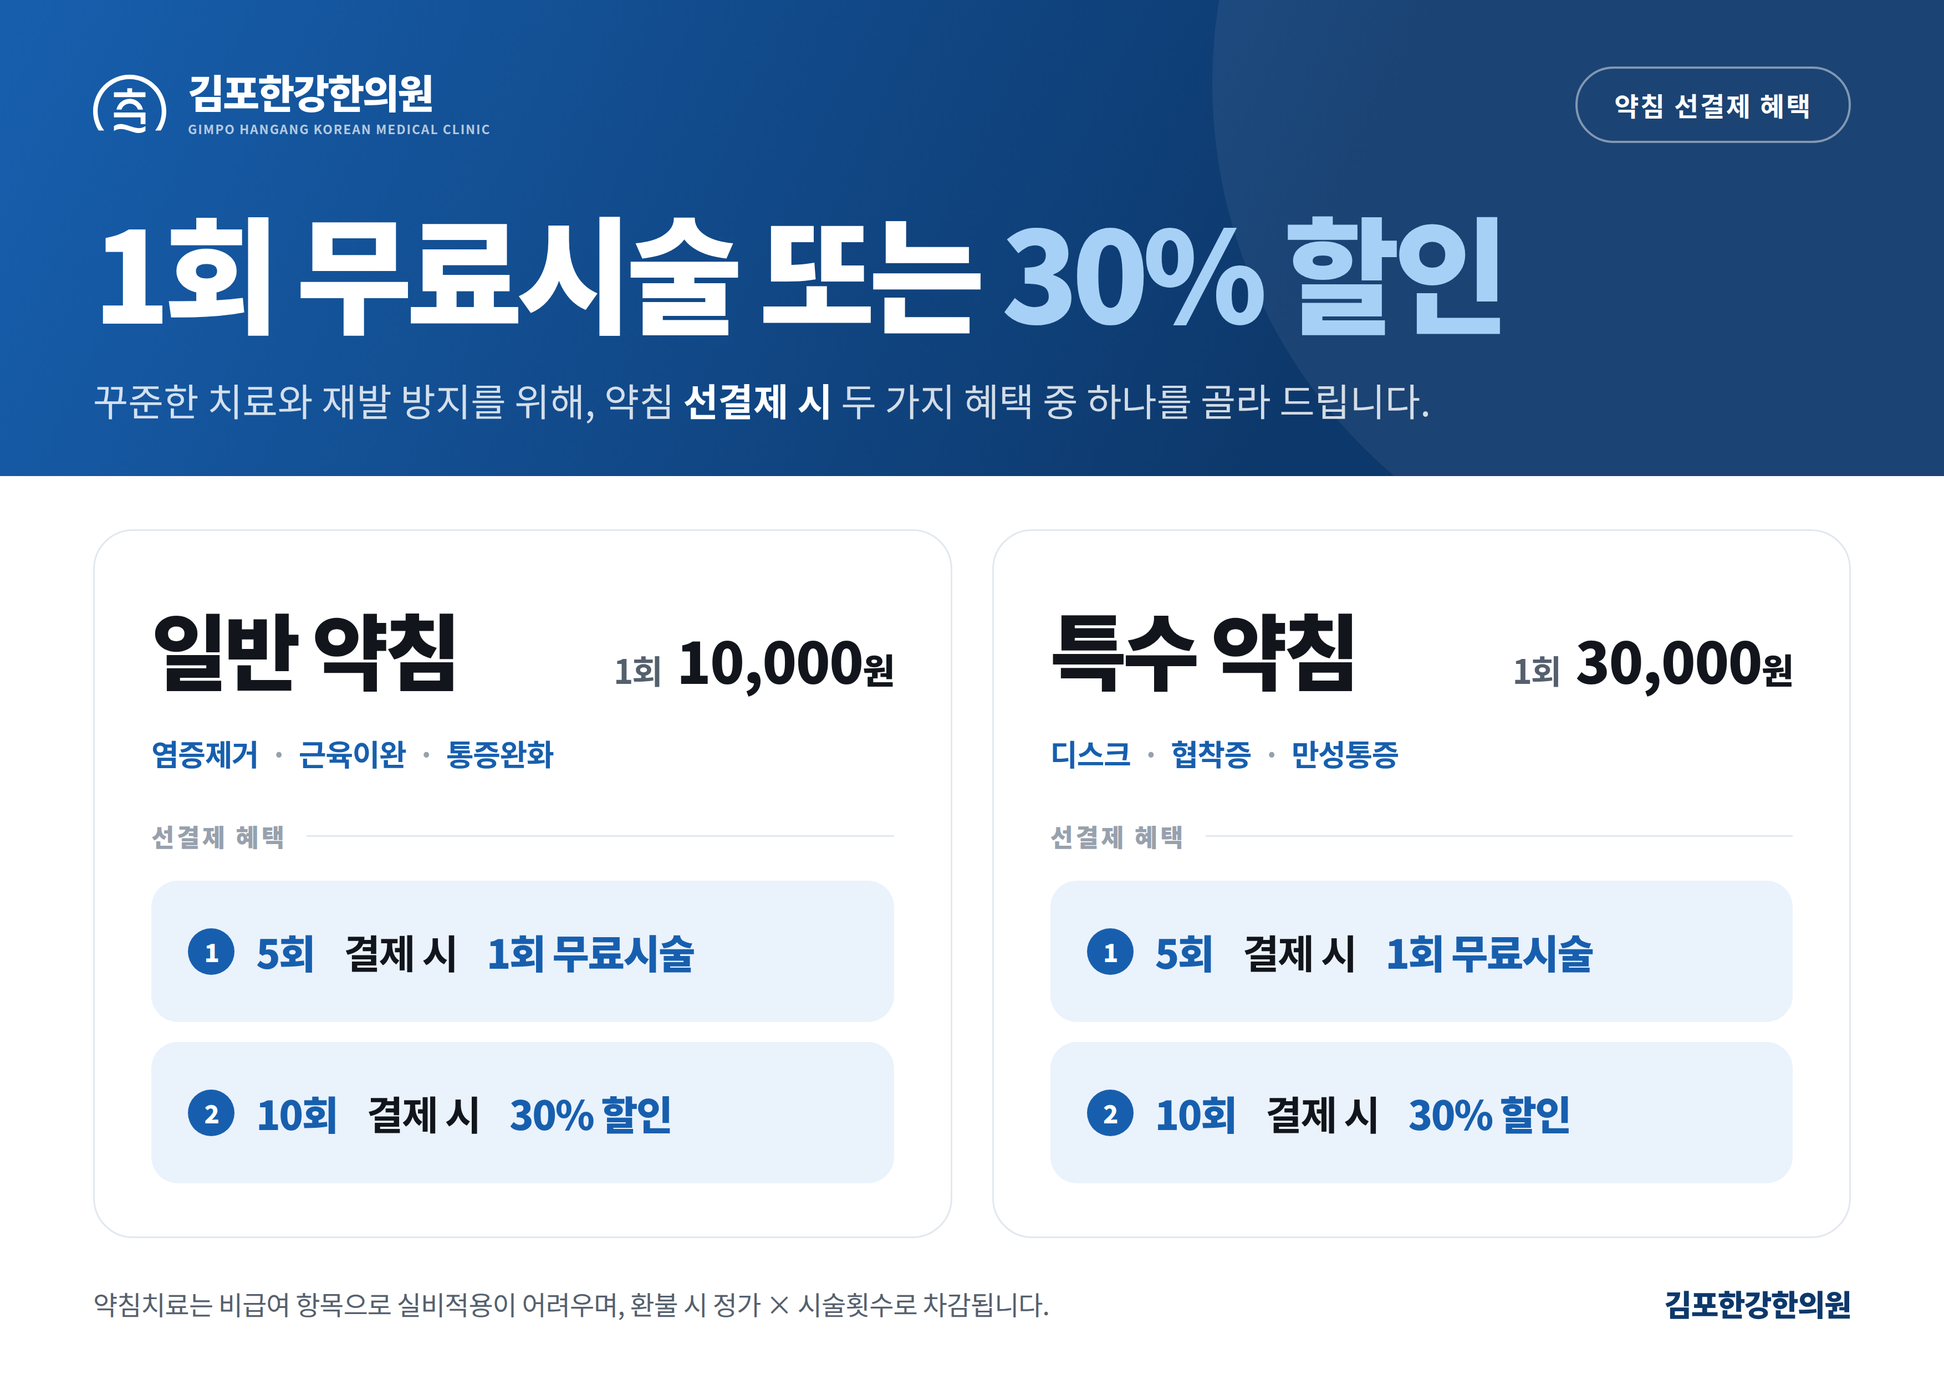
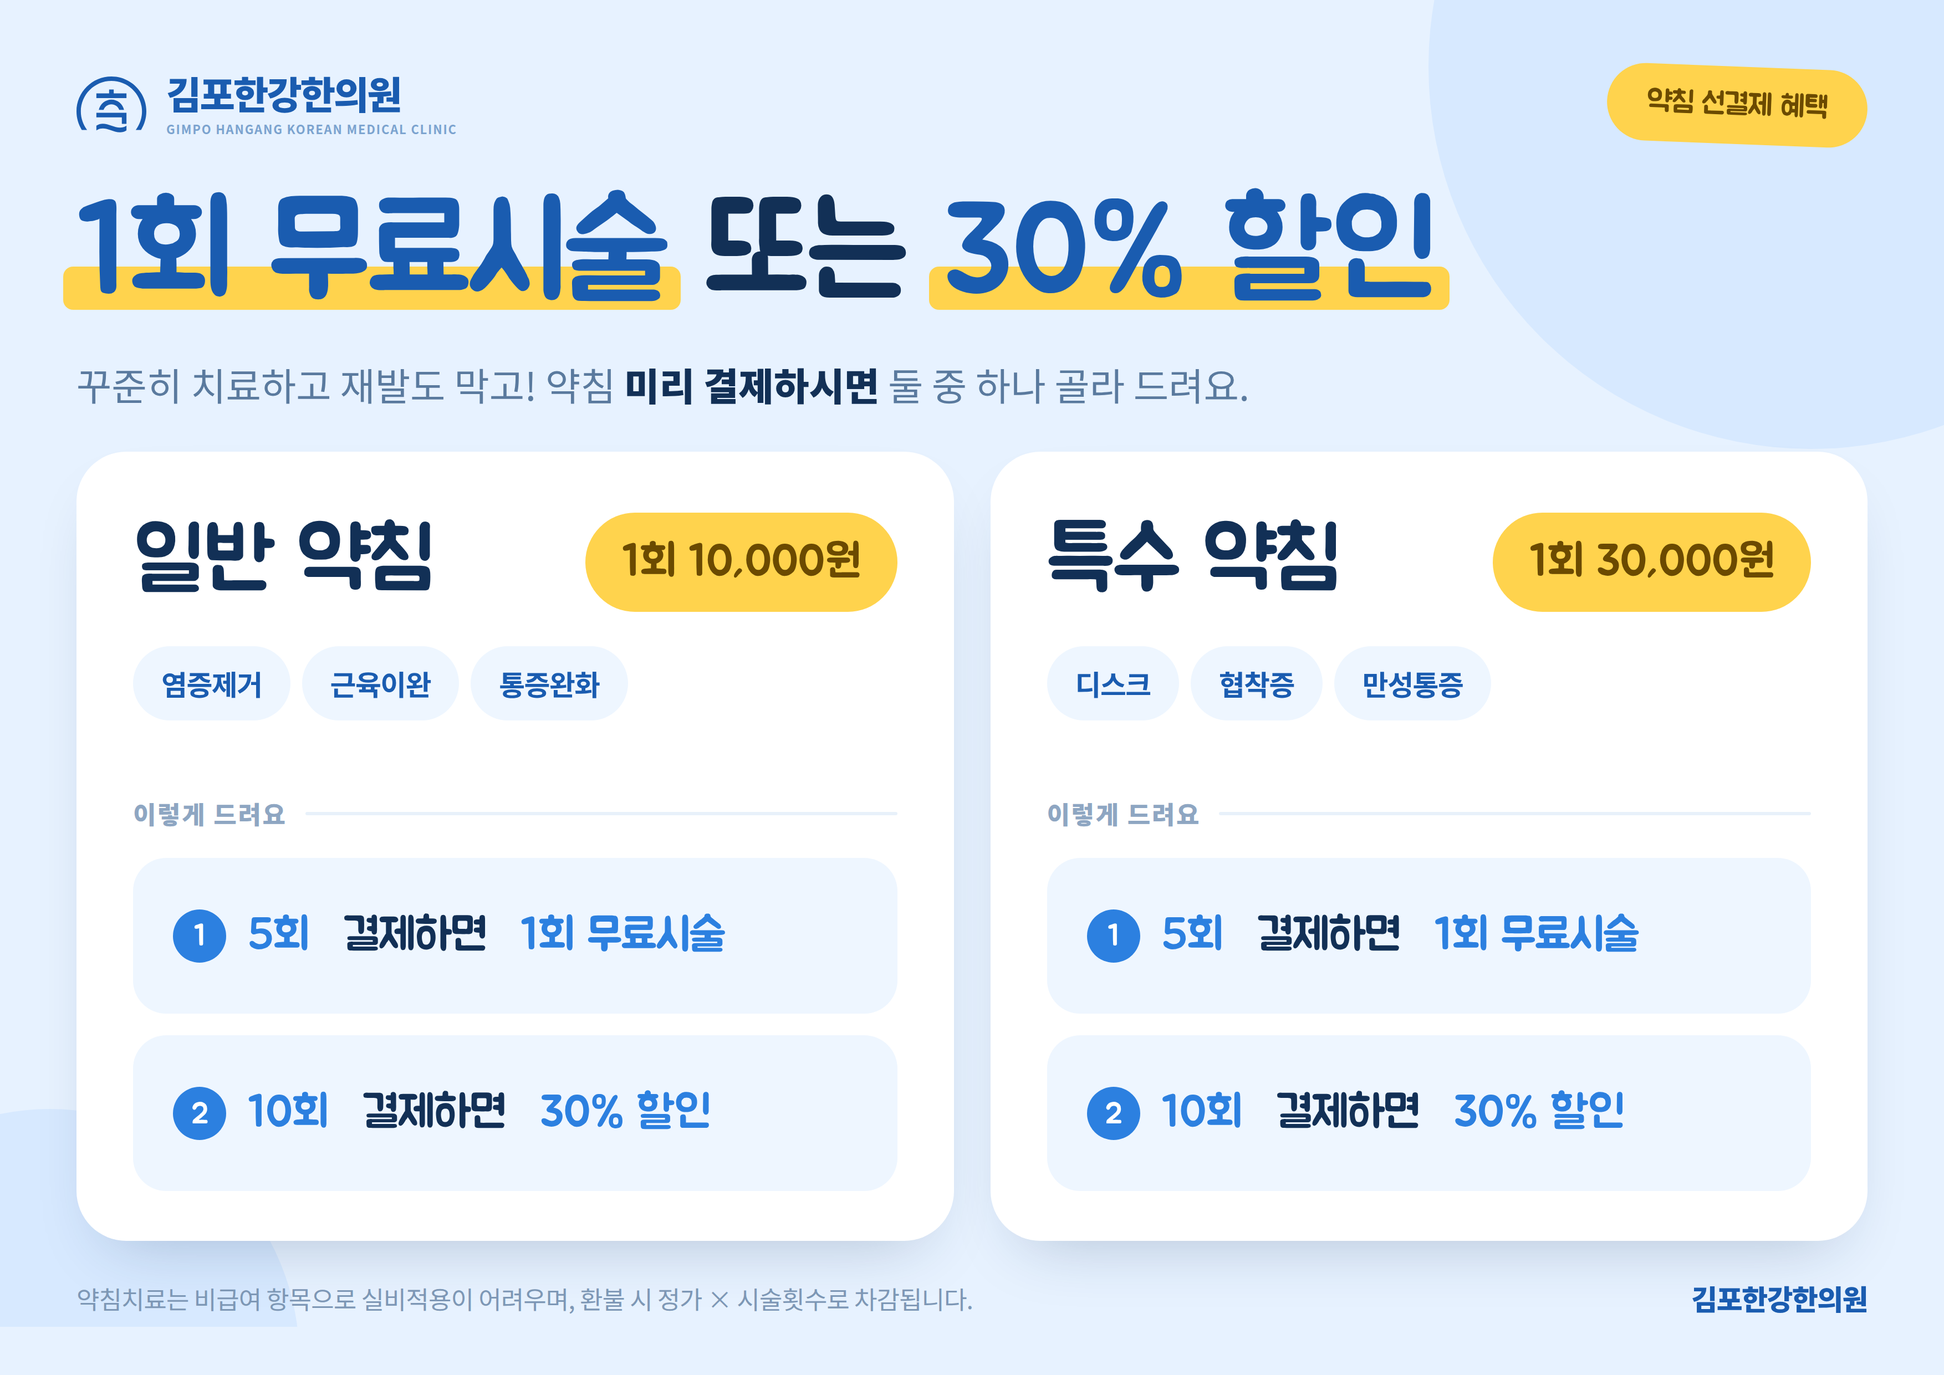
약침 안내 이미지를 캐주얼한 결로
- 제목·금액·혜택 문구를 둥근 서체(Jua)로. 잔글씨는 고딕 그대로 둔다
- 짙은 머리 띠를 걷고 연한 하늘색 종이에 흰 카드를 얹는 구성으로
- 모서리를 키우고 노랑(#ffd34d) 강조 하나 추가. 제목엔 형광펜 자국
- 문어투를 말투로: "결제 시" → "결제하면", "골라 드립니다" → "골라 드려요"
- 배경 동그라미가 꼬리말을 덮던 문제를 z-index 로 정리

Claude-Session: https://claude.ai/code/session_017DGhBSAmjkVB1vRVfDZGb9

diff --git a/tools/poster/yakchim-event.html b/tools/poster/yakchim-event.html
@@ -5,156 +5,167 @@
   @font-face { font-family: "KR"; src: url("file:///root/.fonts/NotoSansKR-400.ttf"); font-weight: 400; }
   @font-face { font-family: "KR"; src: url("file:///root/.fonts/NotoSansKR-700.ttf"); font-weight: 700; }
   @font-face { font-family: "KR"; src: url("file:///root/.fonts/NotoSansKR-900.ttf"); font-weight: 900; }
+  /* 둥근 한글 서체. 제목과 금액에만 쓴다 — 본문까지 이걸로 두면 잔글씨가 뭉갠다 */
+  @font-face { font-family: "Round"; src: url("file:///root/.fonts/Jua-Regular.ttf"); font-weight: 400; }
 
   :root {
-    --ink: #12161c;
-    --muted: #55606d;
-    --faint: #97a1ad;
-    --line: #e2e8ef;
-    --navy: #0d386b;
-    --blue: #175fae;
-    --blue-bright: #2b7fd4;
-    --sky: #a7d0f6;
-    --tint: #eaf2fc;
+    --bg: #e7f2ff;
+    --ink: #123056;
+    --muted: #5a7a9e;
+    --faint: #8ea6c2;
+    --blue: #2c80e0;
+    --blue-deep: #1a5cb0;
+    --sky: #bfdcfb;
+    --sun: #ffd34d;
+    --card: #ffffff;
   }
   /* A4 가로 297×210mm. 1169×827px(=100dpi)에 zoom 3 을 걸어 300dpi 로 뽑는다 */
   html { zoom: 3; }
   * { box-sizing: border-box; margin: 0; padding: 0; }
   body {
     width: 1169px; height: 827px;
-    background: #fff; color: var(--ink);
+    background: var(--bg); color: var(--ink);
     font-family: "KR", "Pretendard", system-ui, sans-serif;
     -webkit-font-smoothing: antialiased;
+    padding: 40px 46px 34px;
     display: flex; flex-direction: column;
+    position: relative; overflow: hidden;
   }
+  /* 배경에 깔리는 동그라미 두 개. 종이 가장자리에서 잘려 나가게 둔다 */
+  body::before, body::after { content: ""; position: absolute; border-radius: 50%; z-index: 0; }
+  body::before { width: 460px; height: 460px; right: -150px; top: -190px; background: #d7e9ff; }
+  body::after { width: 300px; height: 300px; left: -120px; bottom: -140px; background: #d7e9ff; }
+
+  .round { font-family: "Round", "KR", sans-serif; font-weight: 400; }
   /* 이 안의 문장은 어떤 것도 두 줄로 넘어가지 않는다.
      문구를 늘리면 폭을 넘겨 잘리므로, 글자 크기를 같이 줄여야 한다 */
   .oneline { white-space: nowrap; }
 
-  /* ── 머리 띠 ───────────────────────────────────────── */
-  .head {
-    background: linear-gradient(115deg, var(--blue) 0%, var(--navy) 68%);
-    color: #fff;
-    padding: 40px 56px 42px;
-    position: relative; overflow: hidden;
-  }
-  .head::before {
-    content: ""; position: absolute; right: -180px; top: -260px;
-    width: 620px; height: 620px; border-radius: 50%;
-    background: rgba(255, 255, 255, 0.06);
-  }
-  .bar { position: relative; display: flex; align-items: center; justify-content: space-between; }
-  .logo { display: flex; align-items: center; gap: 13px; }
-  .logo .mk { width: 44px; height: 44px; flex: none; }
-  .logo .kr { font-size: 24px; font-weight: 900; letter-spacing: -0.045em; line-height: 1; }
+  /* ── 머리 ──────────────────────────────────────────── */
+  .bar { position: relative; z-index: 1; display: flex; align-items: center; justify-content: space-between; }
+  .logo { display: flex; align-items: center; gap: 12px; color: var(--blue-deep); }
+  .logo .mk { width: 42px; height: 42px; flex: none; }
+  .logo .kr { font-size: 23px; font-weight: 900; letter-spacing: -0.045em; line-height: 1; }
   .logo .en {
-    margin-top: 5px; font-size: 7.6px; font-weight: 700;
-    letter-spacing: 0.085em; color: rgba(255, 255, 255, 0.7);
+    margin-top: 5px; font-size: 7.3px; font-weight: 700;
+    letter-spacing: 0.085em; color: #7ba3cf;
   }
   .badge {
-    border: 1.5px solid rgba(255, 255, 255, 0.45); border-radius: 999px;
-    padding: 10px 22px; font-size: 16px; font-weight: 700; letter-spacing: 0.06em;
+    background: var(--sun); color: #6b4a00;
+    border-radius: 999px; padding: 12px 24px;
+    font-size: 18px; letter-spacing: -0.02em;
+    transform: rotate(2.2deg);
   }
+
   h1 {
-    position: relative; margin-top: 34px;
-    font-size: 76px; font-weight: 900; letter-spacing: -0.05em; line-height: 1.1;
+    position: relative; z-index: 1; margin-top: 24px;
+    font-size: 78px; line-height: 1.1; letter-spacing: -0.02em; color: var(--ink);
   }
-  h1 em { font-style: normal; color: var(--sky); }
+  h1 .hl {
+    position: relative; z-index: 1; color: var(--blue-deep);
+  }
+  /* 형광펜으로 그은 것처럼 글자 뒤에 노란 띠를 깐다 */
+  h1 .hl::before {
+    content: ""; position: absolute; z-index: -1;
+    left: -8px; right: -8px; bottom: 6px; height: 26px;
+    background: var(--sun); border-radius: 6px;
+  }
   .lead {
-    position: relative; margin-top: 20px;
-    font-size: 23px; font-weight: 400; color: rgba(255, 255, 255, 0.82);
+    position: relative; z-index: 1; margin-top: 18px;
+    font-size: 23px; font-weight: 400; color: var(--muted);
   }
-  .lead b { font-weight: 700; color: #fff; }
+  .lead b { font-weight: 900; color: var(--ink); }
 
   /* ── 시술 두 가지 ──────────────────────────────────── */
   .cards {
-    flex: 1;
-    display: grid; grid-template-columns: 1fr 1fr; gap: 24px;
-    padding: 32px 56px 0;
+    position: relative; z-index: 1; flex: 1;
+    display: grid; grid-template-columns: 1fr 1fr; gap: 22px;
+    padding: 24px 0 0;
   }
   .card {
-    border: 1px solid var(--line); border-radius: 24px;
-    padding: 34px 34px 32px;
+    background: var(--card); border-radius: 30px;
+    padding: 34px 34px 30px;
+    box-shadow: 0 18px 40px -20px rgba(18, 48, 86, 0.28);
     display: flex; flex-direction: column;
   }
-  .card .top { display: flex; align-items: baseline; justify-content: space-between; gap: 16px; }
-  .card h2 { font-size: 50px; font-weight: 900; letter-spacing: -0.045em; }
-  .card .fee { font-size: 20px; font-weight: 700; color: var(--muted); letter-spacing: -0.03em; }
-  .card .fee b { font-size: 34px; font-weight: 900; color: var(--ink); padding-left: 5px; }
-  .card .fee u { text-decoration: none; font-size: 21px; font-weight: 900; color: var(--ink); }
-  .card .for {
-    margin-top: 14px; font-size: 18px; font-weight: 700;
-    color: var(--blue); letter-spacing: -0.025em;
+  .card .top { display: flex; align-items: center; justify-content: space-between; gap: 14px; }
+  .card h2 { font-size: 52px; letter-spacing: -0.02em; color: var(--ink); }
+  .fee {
+    background: var(--sun); color: #6b4a00; border-radius: 999px;
+    padding: 13px 22px; font-size: 27px; letter-spacing: -0.02em;
   }
-  .card .for span + span::before { content: "·"; color: var(--faint); padding: 0 7px; }
+  .for { margin-top: 18px; display: flex; gap: 7px; }
+  .for span {
+    background: #eef6ff; color: var(--blue-deep); border-radius: 999px;
+    padding: 10px 17px; font-size: 17px; font-weight: 700; letter-spacing: -0.03em;
+  }
 
   .perklabel {
-    margin-top: auto; padding-top: 26px;
-    display: flex; align-items: center; gap: 12px;
-    font-size: 15px; font-weight: 900; color: var(--faint); letter-spacing: 0.1em;
+    margin-top: auto; padding-top: 28px;
+    display: flex; align-items: center; gap: 11px;
+    font-size: 15px; font-weight: 900; color: var(--faint); letter-spacing: 0.06em;
   }
-  .perklabel::after { content: ""; flex: 1; height: 1px; background: var(--line); }
+  .perklabel::after { content: ""; flex: 1; height: 2px; border-radius: 2px; background: #e8f1fa; }
   .perks { margin-top: 16px; }
   .perk {
     display: flex; align-items: center; gap: 13px;
-    background: var(--tint); border-radius: 16px;
-    padding: 25px 22px;
-    font-size: 24px; font-weight: 700; letter-spacing: -0.035em; color: var(--ink);
+    background: #eef6ff; border-radius: 20px;
+    padding: 30px 24px;
+    font-size: 27px; letter-spacing: -0.02em; color: var(--ink);
   }
-  .perk + .perk { margin-top: 12px; }
-  .perk b { color: var(--blue); font-weight: 900; }
+  .perk + .perk { margin-top: 13px; }
+  .perk b { color: var(--blue); font-weight: 400; }
   .perk .n {
-    flex: none; width: 28px; height: 28px; border-radius: 50%;
+    flex: none; width: 32px; height: 32px; border-radius: 50%;
     background: var(--blue); color: #fff;
-    font-size: 15px; font-weight: 900; line-height: 28px; text-align: center;
+    font-size: 18px; line-height: 33px; text-align: center;
   }
 
   /* ── 꼬리 ──────────────────────────────────────────── */
   .foot {
-    display: flex; align-items: center; justify-content: space-between; gap: 30px;
-    padding: 26px 56px 30px;
-    font-size: 16px; color: var(--muted); letter-spacing: -0.02em;
+    position: relative; z-index: 1;
+    display: flex; align-items: center; justify-content: space-between; gap: 28px;
+    padding-top: 22px;
+    font-size: 15px; color: #7d97b5; letter-spacing: -0.02em;
   }
-  .foot .mark { font-size: 18px; font-weight: 900; color: var(--navy); letter-spacing: -0.03em; }
+  .foot .mark { font-size: 17px; font-weight: 900; color: var(--blue-deep); letter-spacing: -0.03em; }
 </style>
 
-<header class="head">
-  <div class="bar">
-    <div class="logo">
-      <svg class="mk" viewBox="0 0 100 100" fill="currentColor" fill-rule="evenodd" aria-hidden="true"><path d="M50.0 8.81C22.43 8.81 0.0 31.24 0.0 58.81C0.0 68.5 2.78 77.55 7.57 85.22L15.17 85.22C9.58 77.87 6.22 68.74 6.22 58.81C6.22 34.67 25.86 15.03 50.0 15.03C74.14 15.03 93.78 34.67 93.78 58.81C93.78 68.74 90.42 77.87 84.83 85.22L92.43 85.22C97.22 77.55 100.0 68.5 100.0 58.81C100.0 31.24 77.57 8.81 50.0 8.81Z"/><path d="M46.69 27.42L46.69 32.98L28.45 32.98L28.45 39.6L71.55 39.6L71.55 32.98L53.31 32.98L53.31 27.42L46.69 27.42Z"/><path d="M31.92 56.58L38.78 56.58C40.38 51.92 44.8 48.55 50.0 48.55C55.2 48.55 59.62 51.92 61.22 56.58L68.08 56.58C66.31 48.22 58.88 41.93 50.0 41.93C41.12 41.93 33.69 48.22 31.92 56.58Z"/><path d="M28.45 67.25L64.93 67.25L64.93 76.51L71.55 76.51L71.55 60.63L28.45 60.63L28.45 67.25Z"/><path d="M28.45 79.12L28.45 85.22L28.45 85.88C28.8 85.64 29.16 85.43 29.52 85.22C35.69 81.64 41.87 83.18 48.04 85.22C55.88 87.81 63.71 91.19 71.55 85.88L71.55 85.22L71.55 79.12C57.18 88.85 42.82 69.38 28.45 79.12Z"/></svg>
-      <div><p class="kr">김포한강한의원</p><p class="en oneline">GIMPO HANGANG KOREAN MEDICAL CLINIC</p></div>
-    </div>
-    <p class="badge oneline">약침 선결제 혜택</p>
+<div class="bar">
+  <div class="logo">
+    <svg class="mk" viewBox="0 0 100 100" fill="currentColor" fill-rule="evenodd" aria-hidden="true"><path d="M50.0 8.81C22.43 8.81 0.0 31.24 0.0 58.81C0.0 68.5 2.78 77.55 7.57 85.22L15.17 85.22C9.58 77.87 6.22 68.74 6.22 58.81C6.22 34.67 25.86 15.03 50.0 15.03C74.14 15.03 93.78 34.67 93.78 58.81C93.78 68.74 90.42 77.87 84.83 85.22L92.43 85.22C97.22 77.55 100.0 68.5 100.0 58.81C100.0 31.24 77.57 8.81 50.0 8.81Z"/><path d="M46.69 27.42L46.69 32.98L28.45 32.98L28.45 39.6L71.55 39.6L71.55 32.98L53.31 32.98L53.31 27.42L46.69 27.42Z"/><path d="M31.92 56.58L38.78 56.58C40.38 51.92 44.8 48.55 50.0 48.55C55.2 48.55 59.62 51.92 61.22 56.58L68.08 56.58C66.31 48.22 58.88 41.93 50.0 41.93C41.12 41.93 33.69 48.22 31.92 56.58Z"/><path d="M28.45 67.25L64.93 67.25L64.93 76.51L71.55 76.51L71.55 60.63L28.45 60.63L28.45 67.25Z"/><path d="M28.45 79.12L28.45 85.22L28.45 85.88C28.8 85.64 29.16 85.43 29.52 85.22C35.69 81.64 41.87 83.18 48.04 85.22C55.88 87.81 63.71 91.19 71.55 85.88L71.55 85.22L71.55 79.12C57.18 88.85 42.82 69.38 28.45 79.12Z"/></svg>
+    <div><p class="kr">김포한강한의원</p><p class="en oneline">GIMPO HANGANG KOREAN MEDICAL CLINIC</p></div>
   </div>
+  <p class="badge round oneline">약침 선결제 혜택</p>
+</div>
 
-  <h1 class="oneline">1회 무료시술 또는 <em>30% 할인</em></h1>
-  <p class="lead oneline">꾸준한 치료와 재발 방지를 위해, 약침 <b>선결제 시</b> 두 가지 혜택 중 하나를 골라 드립니다.</p>
-</header>
+<h1 class="round oneline"><span class="hl">1회 무료시술</span> 또는 <span class="hl">30% 할인</span></h1>
+<p class="lead oneline">꾸준히 치료하고 재발도 막고! 약침 <b>미리 결제하시면</b> 둘 중 하나 골라 드려요.</p>
 
 <main class="cards">
   <section class="card">
     <div class="top">
-      <h2 class="oneline">일반 약침</h2>
-      <p class="fee oneline">1회 <b>10,000</b><u>원</u></p>
+      <h2 class="round oneline">일반 약침</h2>
+      <p class="fee round oneline">1회 10,000원</p>
     </div>
     <p class="for oneline"><span>염증제거</span><span>근육이완</span><span>통증완화</span></p>
-    <p class="perklabel">선결제 혜택</p>
+    <p class="perklabel">이렇게 드려요</p>
     <div class="perks">
-      <p class="perk oneline"><span class="n">1</span><b>5회</b>&nbsp;결제 시&nbsp;<b>1회 무료시술</b></p>
-      <p class="perk oneline"><span class="n">2</span><b>10회</b>&nbsp;결제 시&nbsp;<b>30% 할인</b></p>
+      <p class="perk round oneline"><span class="n">1</span><b>5회</b>&nbsp;결제하면&nbsp;<b>1회 무료시술</b></p>
+      <p class="perk round oneline"><span class="n">2</span><b>10회</b>&nbsp;결제하면&nbsp;<b>30% 할인</b></p>
     </div>
   </section>
 
   <section class="card">
     <div class="top">
-      <h2 class="oneline">특수 약침</h2>
-      <p class="fee oneline">1회 <b>30,000</b><u>원</u></p>
+      <h2 class="round oneline">특수 약침</h2>
+      <p class="fee round oneline">1회 30,000원</p>
     </div>
     <p class="for oneline"><span>디스크</span><span>협착증</span><span>만성통증</span></p>
-    <p class="perklabel">선결제 혜택</p>
+    <p class="perklabel">이렇게 드려요</p>
     <div class="perks">
-      <p class="perk oneline"><span class="n">1</span><b>5회</b>&nbsp;결제 시&nbsp;<b>1회 무료시술</b></p>
-      <p class="perk oneline"><span class="n">2</span><b>10회</b>&nbsp;결제 시&nbsp;<b>30% 할인</b></p>
+      <p class="perk round oneline"><span class="n">1</span><b>5회</b>&nbsp;결제하면&nbsp;<b>1회 무료시술</b></p>
+      <p class="perk round oneline"><span class="n">2</span><b>10회</b>&nbsp;결제하면&nbsp;<b>30% 할인</b></p>
     </div>
   </section>
 </main>

diff --git a/tools/poster/README.md b/tools/poster/README.md
@@ -14,7 +14,7 @@
 사진 속 원본 게시물의 금액(25,000·35,000…)은 다른 병원 것이라 쓰지 않는다.
 
 혜택은 **묶음 결제 총액이 아니라 조건으로** 적었다.
-`5회 결제 시 1회 무료시술`, `10회 결제 시 30% 할인` 이다.
+`5회 결제하면 1회 무료시술`, `10회 결제하면 30% 할인` 이다.
 1회 정가만 정해져 있으므로 총액(50,000원, 70,000원 …)은 계산해서 넣지 않는다 —
 할인이 회당인지 총액인지, 무료 1회를 정가로 칠지에 따라 값이 달라진다.
 총액을 적으려면 그 기준부터 정하고 `.perk` 문구를 고쳐야 한다.
@@ -28,10 +28,15 @@
 두 줄로 접히지 않는 대신 **문구를 늘리면 폭을 넘겨 잘린다.**
 문구를 고쳤으면 반드시 다시 뽑아 눈으로 확인하고, 넘치면 그 줄의 글자 크기를 줄인다.
 
-## 색
+## 색과 결
 
-푸른 계열이다. 머리 띠는 `#175fae → #0d386b` 그라데이션, 강조는 `#a7d0f6`,
-카드 안 혜택 칸은 `#eaf2fc` 다.
+캐주얼한 결로 잡았다. 연한 하늘색 종이(`#e7f2ff`) 위에 흰 카드를 얹고,
+모서리를 크게 굴리고(카드 30px, 칸 20px), 강조는 노랑(`#ffd34d`) 하나로 준다.
+제목의 노란 띠는 형광펜 자국처럼 글자 뒤에 깐 것이다(`h1 .hl::before`).
+
+배경 동그라미는 `body::before/::after` 다. 본문보다 나중에 그려지므로
+**본문 블록에는 `z-index: 1` 이 있어야 한다** — 빼면 꼬리말이 동그라미에 덮여 잘린다.
+
 홈페이지 초록(`--herb`)이나 로고 원본 청록(`#0A777E`)과는 다른 팔레트다 —
 이 인쇄물에만 쓰는 색이라 `globals.css` 와 맞출 필요가 없다.
 
@@ -44,14 +49,27 @@
 
 ## 글꼴
 
-전부 고딕(Noto Sans KR)이다. 폰트가 `~/.fonts` 에 없으면 먼저 받는다.
+두 벌을 섞는다.
+
+| 쓰임 | 글꼴 |
+|---|---|
+| 제목·시술명·금액·혜택 문구 (`.round`) | Jua — 둥근 한글 서체 |
+| 안내문·태그·주의사항 | Noto Sans KR |
+
+Jua 는 획이 굵고 자간이 넓어 **잔글씨에 쓰면 뭉갠다.** 큰 글자에만 `.round` 를 건다.
+명조는 쓰지 않는다 — 안내물이 옛날 느낌으로 읽힌다.
+
+폰트가 `~/.fonts` 에 없으면 먼저 받는다.
 
 ```bash
 curl -s "https://fonts.googleapis.com/css?family=Noto+Sans+KR:400,700,900&subset=korean" -A "" -o /tmp/kr.css
 mkdir -p ~/.fonts && i=0; for w in 400 700 900; do
   i=$((i+1)); u=$(grep -o "https://[^)]*" /tmp/kr.css | sed -n "${i}p")
   curl -s -o ~/.fonts/NotoSansKR-$w.ttf "$u"
-done && fc-cache -f
+done
+curl -s "https://fonts.googleapis.com/css?family=Jua&subset=korean" -A "" -o /tmp/jua.css
+curl -s -o ~/.fonts/Jua-Regular.ttf "$(grep -o 'https://[^)]*' /tmp/jua.css)"
+fc-cache -f
 ```
 
 ## 다시 뽑는 법
